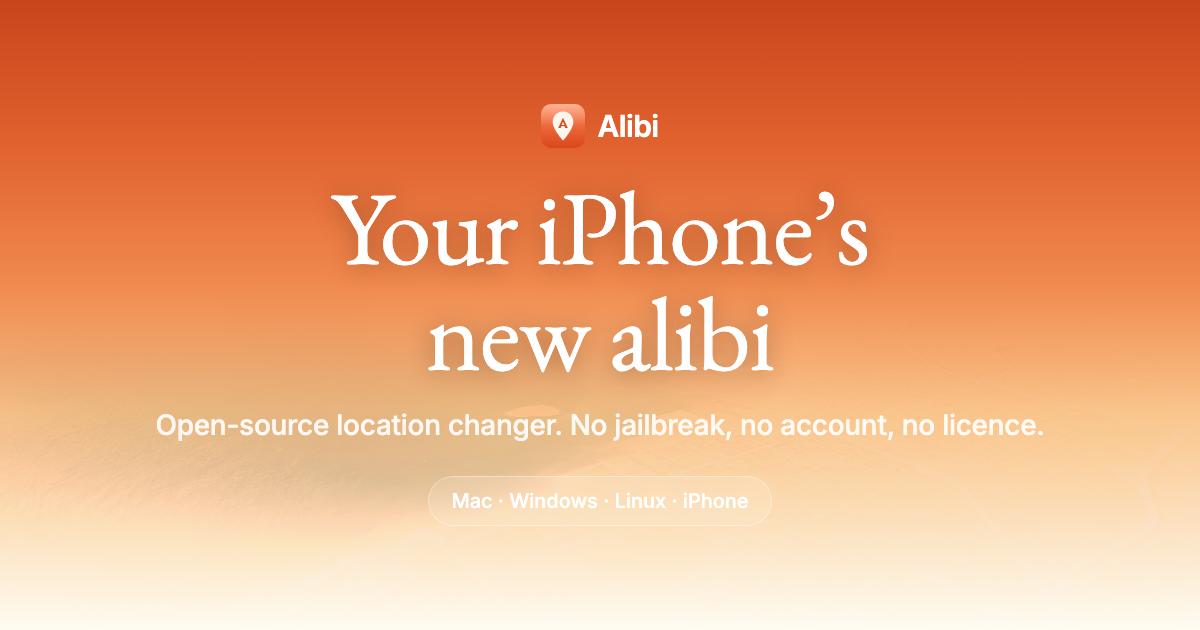
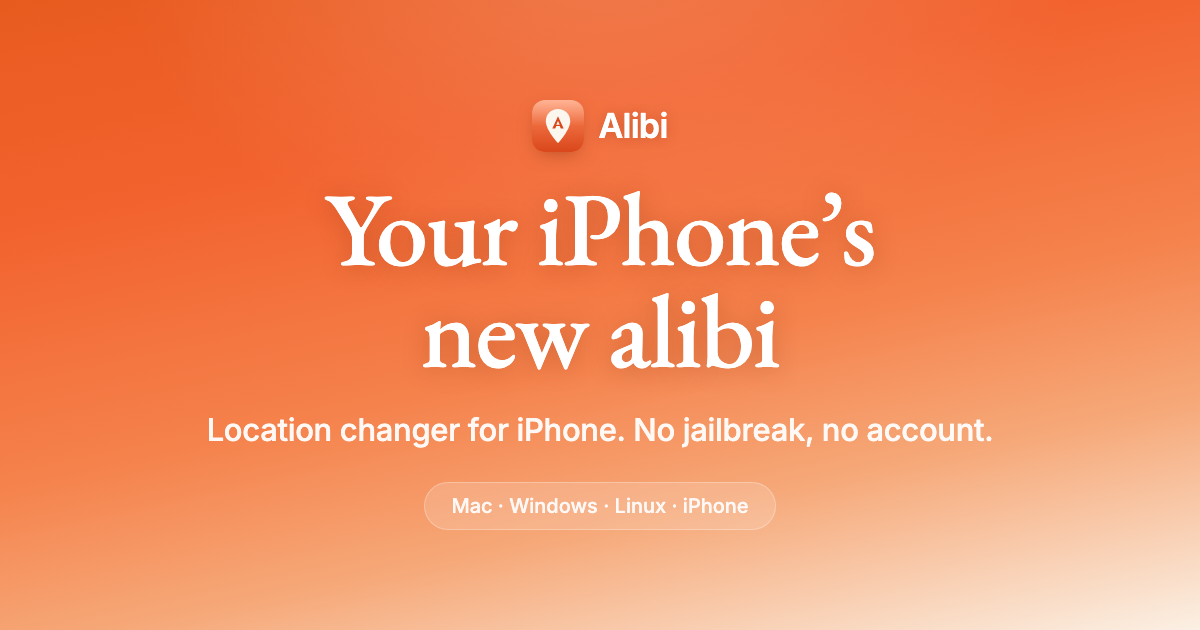
Site: link preview no longer claims open-source or 'no licence' — regenerate og.png and rewrite the meta/og description to 'Location changer for iPhone. No jailbreak, no account.'

diff --git a/site/index.html b/site/index.html
@@ -4,14 +4,14 @@
 <meta charset="UTF-8">
 <meta name="viewport" content="width=device-width, initial-scale=1.0">
 <title>Alibi | Change iPhone Location</title>
-<meta name="description" content="Open-source location changer for iPhone. Plug in once, pick a spot, and every app on your phone believes it. No jailbreak, no account, no licence.">
+<meta name="description" content="Location changer for iPhone. Plug in once, pick a spot, and every app on your phone believes it. No jailbreak, no account needed.">
 <meta name="theme-color" content="#F2622E">
 <link rel="icon" type="image/svg+xml" href="img/favicon.svg">
 <link rel="apple-touch-icon" href="img/mark-180.png">
 <meta property="og:site_name" content="Alibi">
 <meta property="og:type" content="website">
 <meta property="og:title" content="Alibi: put your iPhone anywhere">
-<meta property="og:description" content="Open-source location changer for iPhone. No jailbreak, no account, no licence.">
+<meta property="og:description" content="Location changer for iPhone. No jailbreak, no account needed.">
 <meta property="og:image" content="img/og.png">
 <meta name="twitter:card" content="summary_large_image">
 <link rel="preconnect" href="https://fonts.googleapis.com">
